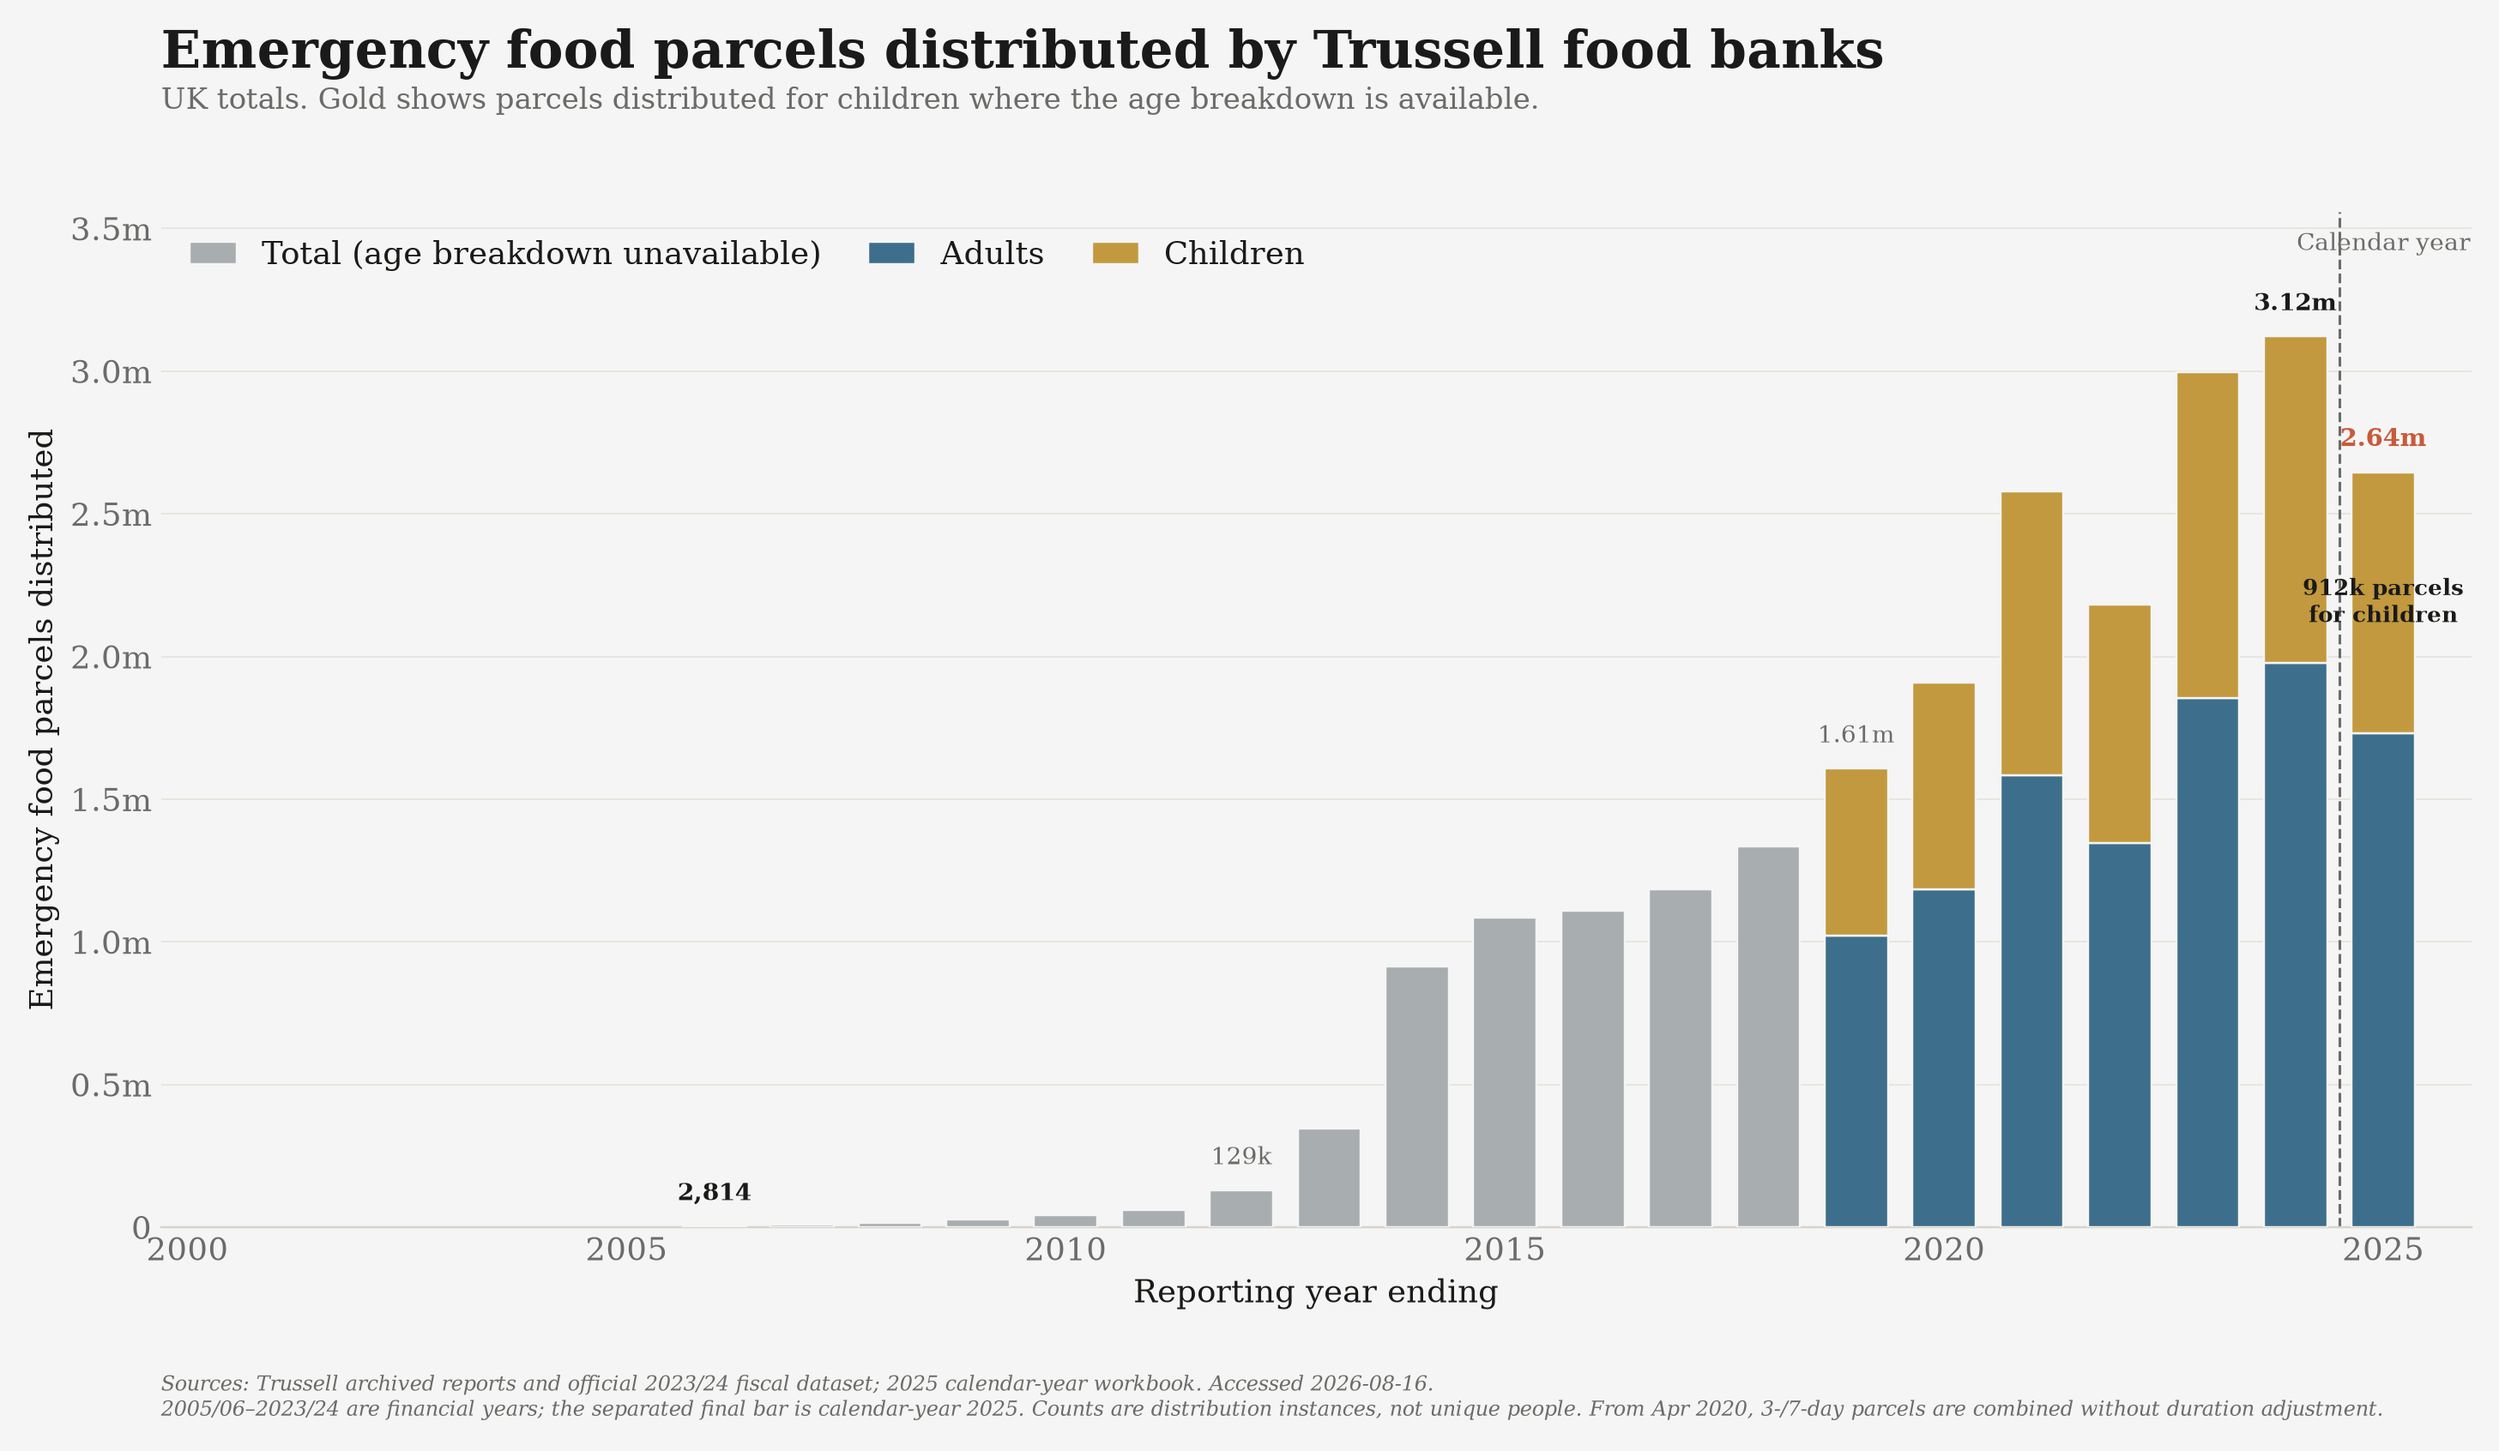
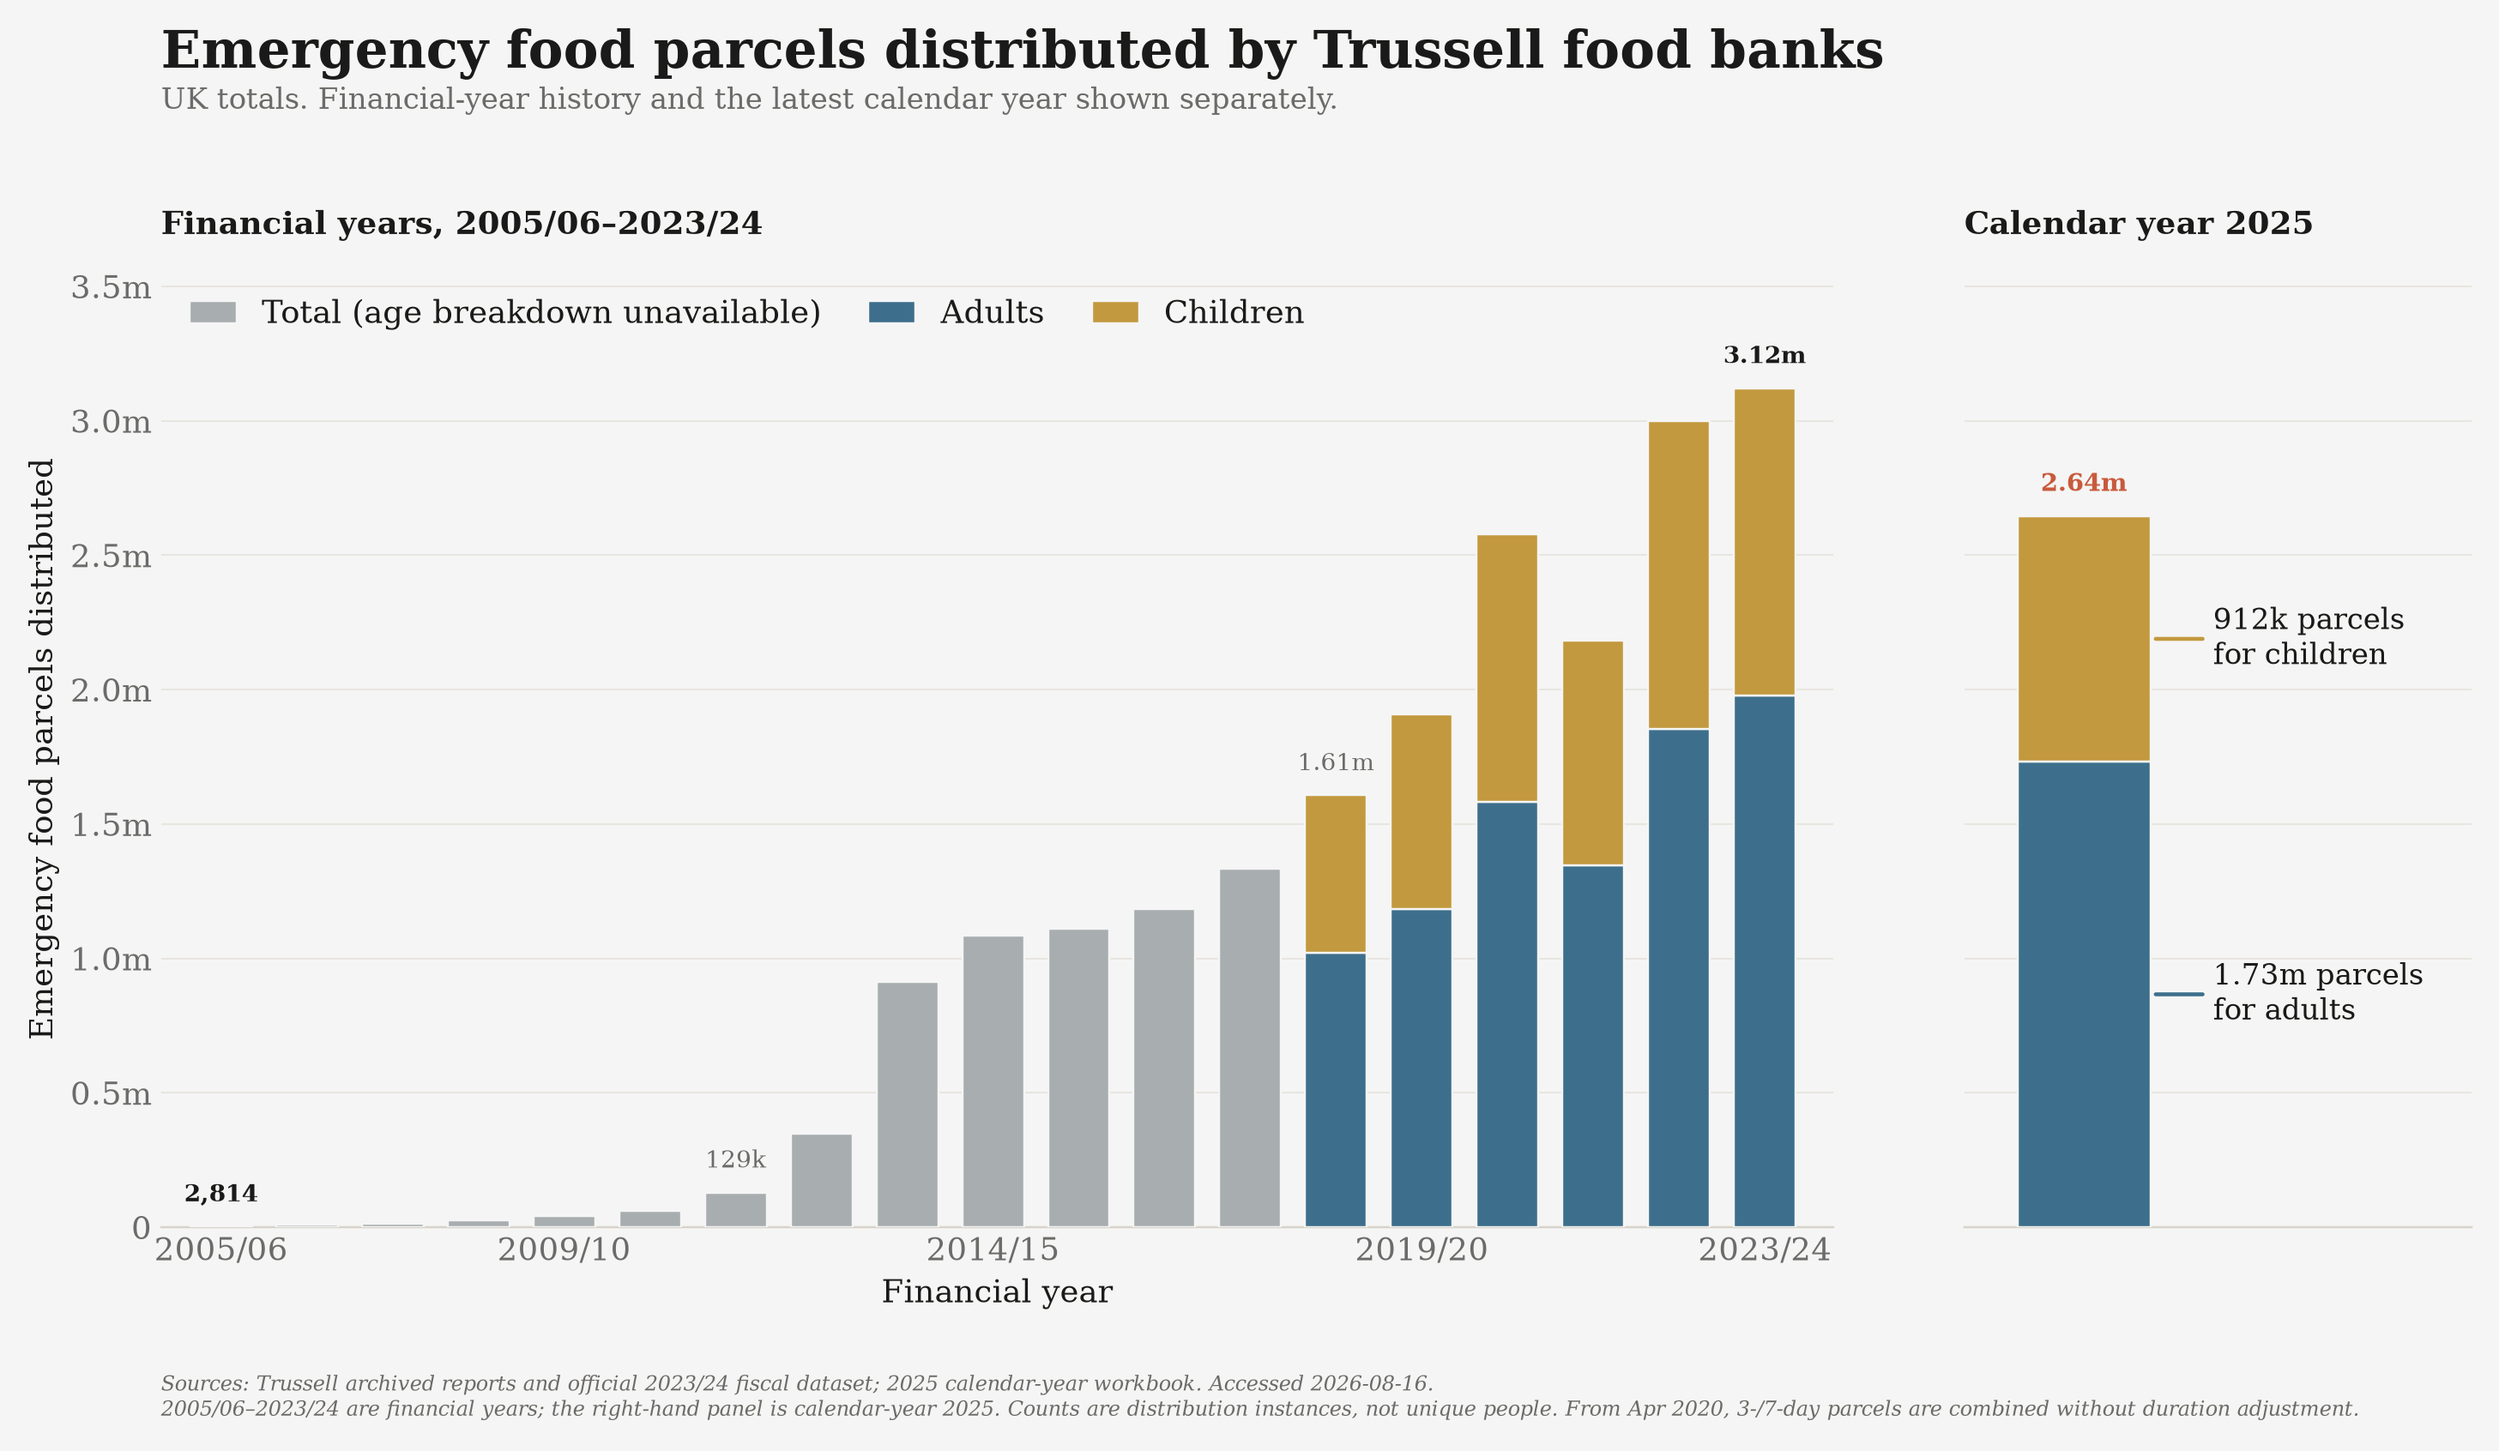
Separate food-bank reporting periods and clarify parcel labels

diff --git a/foodbank_data/charts.py b/foodbank_data/charts.py
@@ -44,24 +44,16 @@ def foodbank_chart(
     annual = annual.sort_values("year")
     latest = annual.iloc[-1]
 
-    # The long-run series uses fiscal observations through 2023/24. The latest
-    # calendar-year observation is appended at 2025 and identified in the note.
     historical = fiscal.copy()
     historical["x"] = historical["end_year"].astype(float)
-    latest_row = pd.DataFrame(
-        [{
-            "period_label": str(int(latest["year"])),
-            "x": float(latest["year"]),
-            "total": float(latest["total"]),
-            "adults": float(latest["adults"]),
-            "children": float(latest["children"]),
-        }]
-    )
 
     no_age = historical[historical["children"].isna()]
     age = historical[historical["children"].notna()]
 
-    fig, ax = plt.subplots(figsize=(13.6, 7.8))
+    fig, (ax, recent) = plt.subplots(
+        1, 2, figsize=(13.6, 7.8), sharey=True,
+        gridspec_kw={"width_ratios": [3.3, 1], "wspace": 0.12},
+    )
 
     ax.bar(
         no_age["x"],
@@ -94,20 +86,20 @@ def foodbank_chart(
         label="Children",
         zorder=3,
     )
-    ax.bar(
-        latest_row["x"],
-        latest_row["adults"],
+    recent.bar(
+        0,
+        latest["adults"],
         width=0.72,
         color=ADULT,
         edgecolor=BG,
         linewidth=0.8,
         zorder=3,
     )
-    ax.bar(
-        latest_row["x"],
-        latest_row["children"],
+    recent.bar(
+        0,
+        latest["children"],
         width=0.72,
-        bottom=latest_row["adults"],
+        bottom=latest["adults"],
         color=CHILD,
         edgecolor=BG,
         linewidth=0.8,
@@ -132,8 +124,8 @@ def foodbank_chart(
             color=TEXT if period in {"2005/06", "2023/24"} else MUTED,
             fontweight="bold" if period in {"2005/06", "2023/24"} else "normal",
         )
-    ax.text(
-        latest["year"],
+    recent.text(
+        0,
         latest["total"] + 72_000,
         _total_label(float(latest["total"])),
         ha="center",
@@ -143,32 +135,47 @@ def foodbank_chart(
         fontweight="bold",
     )
 
-    # Directly identify the child share without adding a second chart.
-    ax.text(
-        latest["year"],
-        latest["adults"] + latest["children"] / 2,
-        f"{latest['children'] / 1_000:.0f}k parcels\nfor children",
-        ha="center",
-        va="center",
-        fontsize=8.5,
-        color=TEXT,
-        fontweight="bold",
-    )
+    for count, center, label, color in (
+        (latest["adults"], latest["adults"] / 2, "adults", ADULT),
+        (latest["children"], latest["adults"] + latest["children"] / 2,
+         "children", CHILD),
+    ):
+        recent.annotate(
+            f"{_total_label(float(count))} parcels\nfor {label}",
+            xy=(0.36, center), xytext=(0.7, center),
+            ha="left", va="center", fontsize=11, color=TEXT,
+            arrowprops={"arrowstyle": "-", "color": color, "linewidth": 1.5},
+        )
 
-    ax.axvline(float(latest["year"]) - 0.5, linestyle="--", color=MUTED, linewidth=1)
-    ax.text(latest["year"], 0.98, "Calendar year", transform=ax.get_xaxis_transform(),
-            ha="center", va="top", fontsize=9, color=MUTED)
-    ax.set_xlim(1999.7, max(float(historical["x"].max()), latest["year"]) + 1)
+    ax.set_title(
+        f"Financial years, {historical.iloc[0]['period_label']}"
+        f"–{historical.iloc[-1]['period_label']}",
+        loc="left", fontsize=12, fontweight="bold", pad=14,
+    )
+    recent.set_title(f"Calendar year {int(latest['year'])}",
+                     loc="left", fontsize=12, fontweight="bold", pad=14)
+    ax.set_xlim(historical["x"].min() - 0.7, historical["x"].max() + 0.8)
+    recent.set_xlim(-0.65, 2.1)
+    recent.set_xticks([])
+    recent.tick_params(axis="y", left=False, labelleft=False)
     ax.set_ylim(0, max(float(historical["total"].max()), latest["total"]) * 1.14)
-    ax.set_xticks([2000, 2005, 2010, 2015, 2020, 2025])
-    ax.set_xticklabels(["2000", "2005", "2010", "2015", "2020", "2025"])
+    ticks = historical[
+        historical["end_year"].mod(5).eq(0)
+        | historical["end_year"].isin(
+            [historical.iloc[0]["end_year"], historical.iloc[-1]["end_year"]]
+        )
+    ]
+    ax.set_xticks(ticks["x"], ticks["period_label"])
     ax.yaxis.set_major_locator(mtick.MultipleLocator(500_000))
     ax.yaxis.set_major_formatter(mtick.FuncFormatter(_millions))
     ax.set_ylabel("Emergency food parcels distributed")
-    ax.set_xlabel("Reporting year ending")
+    ax.set_xlabel("Financial year")
     ax.grid(axis="y")
     ax.set_axisbelow(True)
     ax.spines["left"].set_visible(False)
+    recent.grid(axis="y")
+    recent.set_axisbelow(True)
+    recent.spines["left"].set_visible(False)
     ax.legend(
         loc="upper left",
         frameon=False,
@@ -189,8 +196,7 @@ def foodbank_chart(
     fig.text(
         0.075,
         0.91,
-        "UK totals. Gold shows parcels distributed for children where the age "
-        "breakdown is available.",
+        "UK totals. Financial-year history and the latest calendar year shown separately.",
         ha="left",
         fontsize=11,
         color=MUTED,
@@ -201,14 +207,14 @@ def foodbank_chart(
         "Sources: Trussell archived reports and official 2023/24 fiscal dataset; "
         f"{int(latest['year'])} calendar-year workbook. Accessed {ACCESSED_DATE}.\n"
         f"{historical.iloc[0]['period_label']}–{historical.iloc[-1]['period_label']} "
-        f"are financial years; the separated final bar is calendar-year {int(latest['year'])}. "
+        f"are financial years; the right-hand panel is calendar-year {int(latest['year'])}. "
         "Counts are distribution instances, not unique people. "
         "From Apr 2020, 3-/7-day parcels are combined without duration adjustment.",
         x=0.075,
         y=0.022,
     )
 
-    fig.subplots_adjust(left=0.075, right=0.975, top=0.84, bottom=0.15)
+    fig.subplots_adjust(left=0.075, right=0.975, top=0.8, bottom=0.15)
     out_path = Path(out_path)
     out_path.parent.mkdir(parents=True, exist_ok=True)
     fig.savefig(out_path, dpi=220, bbox_inches="tight", pad_inches=0.15, facecolor=BG)

diff --git a/tests/test_foodbank.py b/tests/test_foodbank.py
@@ -9,6 +9,8 @@ from pathlib import Path
 
 import pandas as pd
 import pytest
+from matplotlib.backends.backend_agg import FigureCanvasAgg
+from matplotlib.text import Text
 
 sys.path.insert(0, str(Path(__file__).resolve().parent.parent))
 
@@ -102,7 +104,7 @@ def test_parser_rejects_fractional_counts_instead_of_truncating():
         parse.parse_calendar_years(io.BytesIO(payload))
 
 
-def test_chart_does_not_label_parcels_as_unique_children(monkeypatch):
+def test_chart_keeps_calendar_annotations_separate_and_readable(monkeypatch):
     annual = parse.parse_calendar_years(CALENDAR_SOURCE.path(RAW_DIR))
     fiscal = history.build_fiscal_history(FISCAL_ARCHIVE, FISCAL_SLIDES_SOURCE.path(RAW_DIR))
     original = charts.plt.subplots
@@ -110,15 +112,39 @@ def test_chart_does_not_label_parcels_as_unique_children(monkeypatch):
 
     def capture(*args, **kwargs):
         fig, ax = original(*args, **kwargs)
-        captured.append(ax)
+        captured.append((fig, ax))
         return fig, ax
 
     monkeypatch.setattr(charts.plt, "subplots", capture)
     monkeypatch.setattr(charts.plt.Figure, "savefig", lambda *a, **k: None)
     charts.foodbank_chart(fiscal, annual)
-    labels = [text.get_text() for text in captured[0].texts]
+    fig, (historical, recent) = captured[0]
+    labels = [text.get_text() for text in recent.texts]
     assert "912k parcels\nfor children" in labels
-    assert "Calendar year" in labels
+    assert "1.73m parcels\nfor adults" in labels
+    assert recent.get_title(loc="left") == "Calendar year 2025"
+    assert "2005/06–2023/24" in historical.get_title(loc="left")
+    assert historical.get_ylim() == recent.get_ylim()
+    assert len(recent.patches) == 2
+    assert sum(bar.get_height() for bar in recent.patches) == annual.iloc[-1]["total"]
+    canvas = FigureCanvasAgg(fig)
+    canvas.draw()
+    renderer = canvas.get_renderer()
+    title_box = next(
+        text.get_window_extent(renderer) for text in recent.findobj(Text)
+        if text.get_text() == "Calendar year 2025"
+    )
+    boxes = [text.get_window_extent(renderer) for text in recent.texts]
+    for index, box in enumerate(boxes):
+        assert not box.overlaps(historical.get_window_extent(renderer))
+        assert not box.overlaps(title_box)
+        assert all(not box.overlaps(other) for other in boxes[index + 1:])
+    for annotation in recent.texts:
+        if annotation.get_text().endswith(("for children", "for adults")):
+            assert annotation.arrow_patch is not None
+            assert annotation.xy[0] == pytest.approx(0.36)
+            bar = recent.patches[1 if annotation.get_text().endswith("for children") else 0]
+            assert bar.get_y() < annotation.xy[1] < bar.get_y() + bar.get_height()
 
 
 def test_official_workbooks_match_headlines() -> None:
